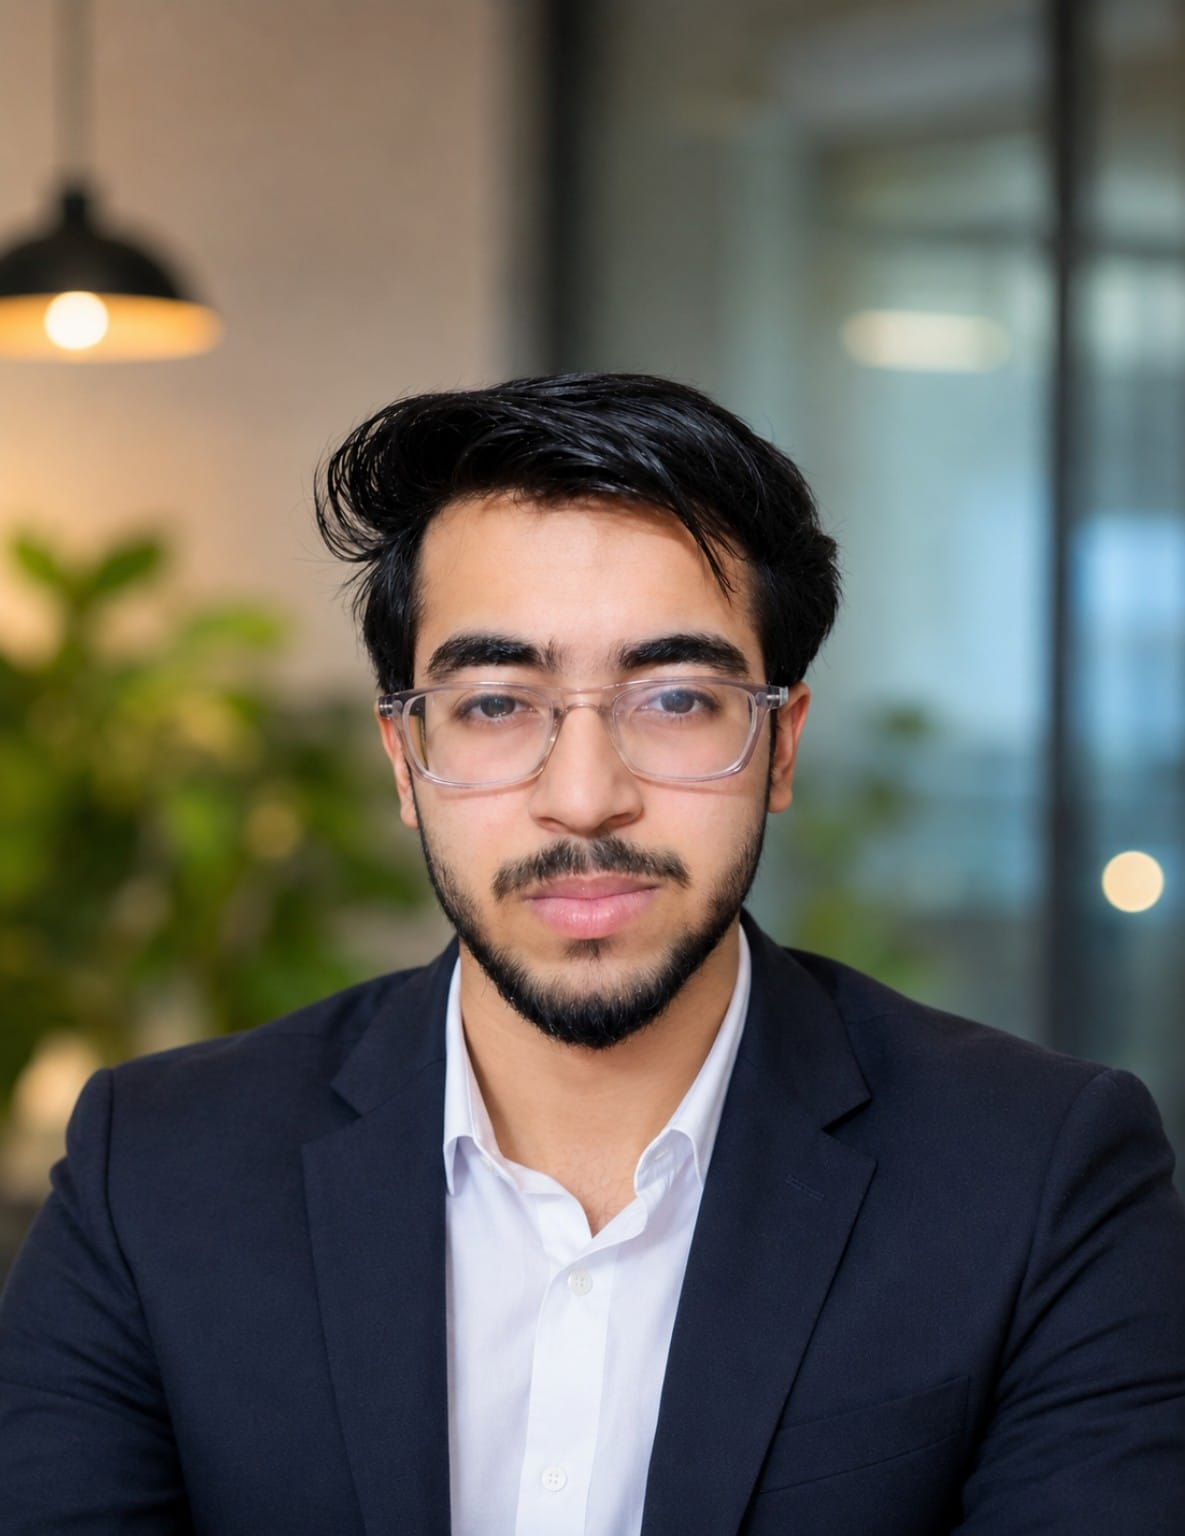
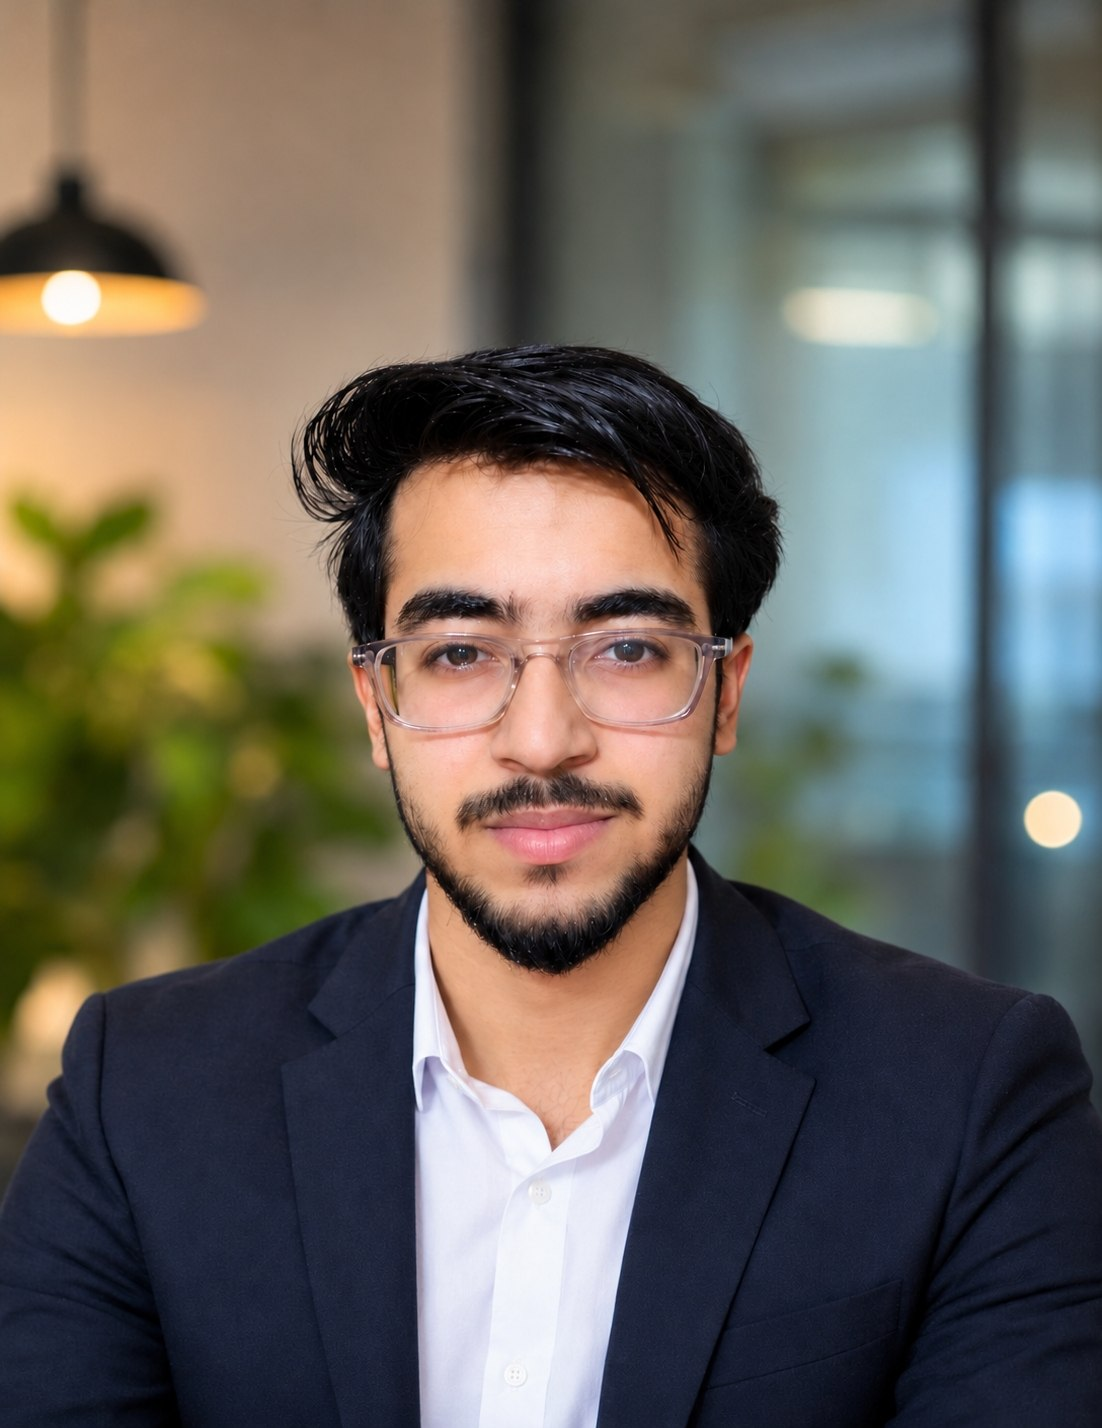
more changes

diff --git a/app/page.tsx b/app/page.tsx
@@ -11,9 +11,8 @@ const projects = [
     title: "Luxe Health AI",
     year: "Jun 2025 — Jul 2025",
     thesis: "Enterprise medical image analysis with secure DICOM and Orthanc PACS workflows.",
-    image:
-      "https://images.unsplash.com/photo-1550745165-9bc0b252726f?auto=format&fit=crop&w=1200&q=85",
-    alt: "Retro computer and game controller on a dark desk",
+    image: "/projects/luxe-health-ai.webp",
+    alt: "Radiology workstation showing MRI scans with AI-assisted highlighting",
     problem:
       "Healthcare systems struggle with complex medical image analysis and fragmented PACS workflows, leading to inefficiencies and delayed diagnoses.",
     solution:
@@ -31,9 +30,8 @@ const projects = [
     title: "NeuroSync AI",
     year: "Jan 2025",
     thesis: "An AI mental-health companion designed around emotional support and Web3 privacy.",
-    image:
-      "https://images.unsplash.com/photo-1551288049-bebda4e38f71?auto=format&fit=crop&w=1200&q=85",
-    alt: "Abstract data dashboard with charts",
+    image: "/projects/neurosync-ai.webp",
+    alt: "A private wellness companion app on a phone beside a journal",
     problem:
       "Mental-health support tools often compromise user privacy, creating barriers to seeking help.",
     solution:
@@ -51,9 +49,8 @@ const projects = [
     title: "Derma AI",
     year: "Nov 2025",
     thesis: "An AI-powered dermatology platform connecting early skin insights with structured consultations.",
-    image:
-      "https://images.unsplash.com/photo-1518005020951-eccb494ad742?auto=format&fit=crop&w=1200&q=85",
-    alt: "Architectural lines and a warm sunlit wall",
+    image: "/projects/derma-ai.webp",
+    alt: "Dermatology analysis app alongside a clinical skin examination",
     problem:
       "Limited access to early dermatology insights and inefficient doctor-consultation processes make it harder to act early.",
     solution:
@@ -71,9 +68,8 @@ const projects = [
     title: "Hackathon Hub",
     year: "Jan 2026",
     thesis: "A centralized discovery platform for students, developers, and builders looking for their next hackathon.",
-    image:
-      "https://images.unsplash.com/photo-1517245386807-bb43f82c33c4?auto=format&fit=crop&w=1200&q=85",
-    alt: "A group collaborating around a table",
+    image: "/projects/hackathon-hub.webp",
+    alt: "Hackathon discovery platform displayed on a laptop in a campus workspace",
     problem:
       "Hackathons are scattered across platforms, making discovery difficult for students and developers.",
     solution:
@@ -88,9 +84,8 @@ const projects = [
     title: "FitTracker",
     year: "Oct 2025",
     thesis: "AI-powered fitness and nutrition tracking for more personal, data-informed habit building.",
-    image:
-      "https://images.unsplash.com/photo-1517836357463-d25dfeac3438?auto=format&fit=crop&w=1200&q=85",
-    alt: "A person preparing for a workout",
+    image: "/projects/fittracker.webp",
+    alt: "Fitness and nutrition tracking app beside workout gear and a balanced meal",
     problem:
       "Fragmented fitness tools lack personalization and data-driven insights for long-term habit building.",
     solution:
@@ -105,9 +100,8 @@ const projects = [
     title: "Elite Events",
     year: "Sep 2025",
     thesis: "A premium college-event platform for discovery, ticketing, referrals, and loyalty rewards.",
-    image:
-      "https://images.unsplash.com/photo-1506157786151-b8491531f063?auto=format&fit=crop&w=1200&q=85",
-    alt: "A live event with lights and a crowd",
+    image: "/projects/elite-events.webp",
+    alt: "Digital event ticket on a phone in a warmly lit college auditorium",
     problem:
       "College events lack modern digital infrastructure for discovery, booking, and management.",
     solution:
@@ -287,7 +281,7 @@ export default function Home() {
               </div>
               <div className="hero-card hero-card-small parallax-card">
                 <img
-                  src="https://images.unsplash.com/photo-1493246507139-91e8fad9978e?auto=format&fit=crop&w=900&q=85"
+                  src="/second.jpg"
                   alt="A foggy forest landscape"
                 />
                 <span className="small-card-label">
@@ -428,21 +422,21 @@ export default function Home() {
                 I share what I’m learning about emerging AI tools, practical development, hackathons,
                 and the experiments that happen between “this could be interesting” and “it actually works.”
               </p>
-              <a className="button button-outline" href="https://www.youtube.com/watch?v=m9hT4-A8NWg" target="_blank" rel="noreferrer" data-magnetic>
+              <a className="button button-outline" href="https://www.youtube.com/@ishaanrai009" target="_blank" rel="noreferrer" data-magnetic>
                 <span>Visit the channel</span>
                 <span className="button-icon">↗</span>
               </a>
             </div>
             <a
               className="video-feature reveal-up"
-              href="https://www.youtube.com/watch?v=m9hT4-A8NWg"
+              href="https://www.youtube.com/@ishaanrai009"
               target="_blank"
               rel="noreferrer"
               aria-label="Watch the latest field note"
             >
               <img
-                src="https://images.unsplash.com/photo-1492619375914-88005aa9e8fb?auto=format&fit=crop&w=1400&q=85"
-                alt="A vintage camera resting on a desk"
+                src="/creator-ai-build.webp"
+                alt="AI workflow and code on a laptop in a warm creative workspace"
               />
               <span className="video-overlay" />
               <span className="video-play">▶</span>
